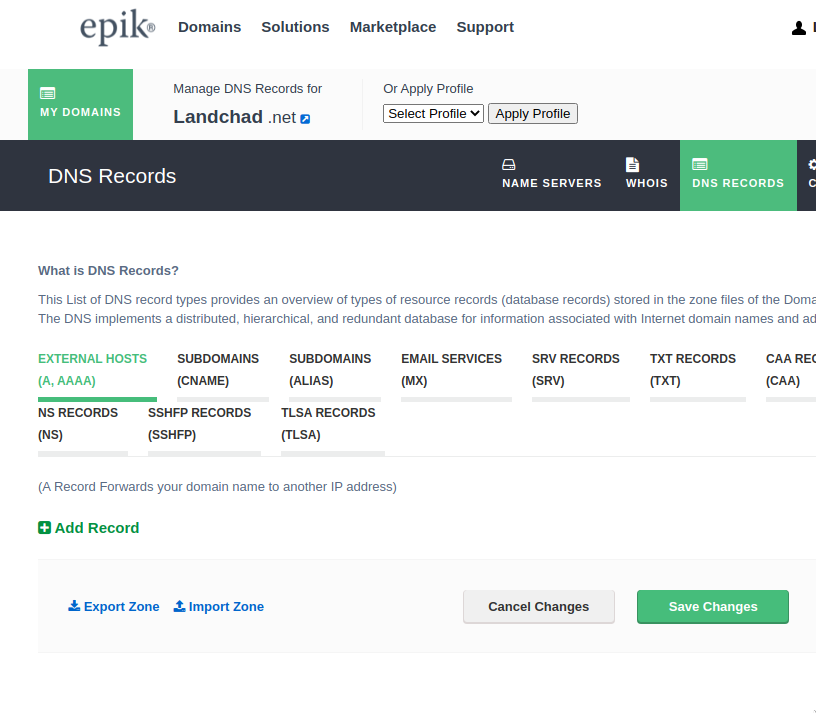
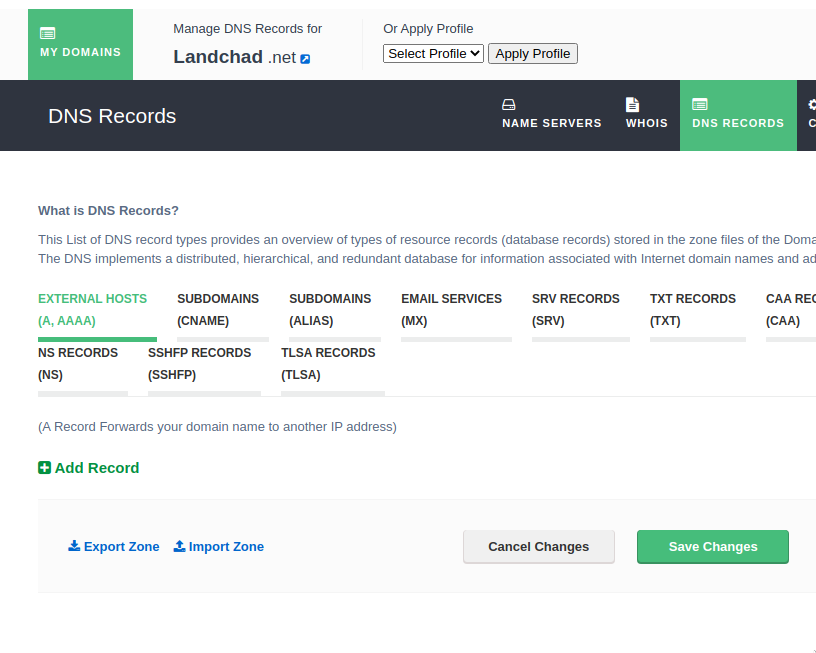
Epik formally disrecommended In addition to being hacked, Epik has been taking weeks or months to register domains and the quality of service has cratered. Lack of transparency about issues makes recommendation of Epik impossible.

diff --git a/content/basic/dns.md b/content/basic/dns.md
@@ -10,30 +10,28 @@ can connect the two using DNS records. DNS (domain name system) records
 are usually put into your registrar and direct people looking up your
 website to the server where your website and other things will be.
 
-Get your IPv4/IPv6 addresses from Vultr and put them into A/AAAA records
-on Epik. Simple process, takes a minute, but here\'s a guide with a
-million images just so you know.
+Get your IPv4/IPv6 addresses from your VPS provider and put them into A/AAAA
+records on your registrar. Simple process, takes a minute, but here\'s a guide
+with a million images just so you know.
 
 ## Open up your Registrar
 
-As before, we will be using
-[Epik](https://www.epik.com/?affid=we2ro7sa6) as a registrar and
-[Vultr](https://www.vultr.com/?ref=8384069-6G) as a server host. Go
-ahead and log into your accounts on both. Open up Epik, or your
-registrar, and click on your domain and then a choice for \"DNS
-records.\" This is the screen you\'ll want to see on Epik.
+As before, we will be using any registrar of your choice and
+[Vultr](https://www.vultr.com/?ref=8384069-6G) as a server host. Go ahead and
+log into your accounts on both. Open up your registrar, or your registrar, and
+click on your domain and then a choice for \"DNS records.\" You'll want to see
+something like this on your registrar's site.
 
-{{< img alt="Blank Epik DNS records" src="/pix/dns-epik.png" link="/pix/dns-epik.png" >}}
+{{< img alt="Blank records" src="/pix/dns-epik.png" link="/pix/dns-epik.png" >}}
 
-Note that we are on the \"External Hosts (A, AAAA)\" tab by default.
-Epik sometimes adds records to this page once you buy a domain. If they
-did, you can go ahead and delete them so they look clean like the
-picture above.
+Note that we are on the \"External Hosts (A, AAAA)\" tab by default. There may
+be default settings set by your registrar. If there are, you can go ahead and
+delete them so they look clean like the picture above.
 
 **All we have to do now is get our IP addresses from Vultr and add new
 DNS records that will send connections to our server.**
 
-Keep the Epik tab open and open Vultr and we will copy-and-paste our IP
+Keep the registrar tab open and open Vultr and we will copy-and-paste our IP
 addresses in.
 
 ## Find your server\'s IP addresses
@@ -45,8 +43,8 @@ attach to it). That is my **IPv4** address.
 
 {{< img src="/pix/dns-ipv4.png" alt="See the IPv4 address?" link="/pix/dns-ipv4.png" >}}
 
-Copy your IPv4 address and on Epik, click the \"Add Record\" record
-button and add two A entries pasting in your IPv4 address like I\'ve
+Copy your IPv4 address and on your registrar's site, click the \"Add Record\"
+record button and add two A entries pasting in your IPv4 address like I\'ve
 done for mine here.
 
 {{< img src="/pix/dns-ipv4-done.png" alt="IPv4 complete" link="/pix/dns-ipv4-done.png" >}}
@@ -74,8 +72,8 @@ Now just click on the **IPv6** submenu to reveal your IPv6 address.
 {{< img alt="The IPv6 address" src="/pix/dns-ipv6.png" link="/pix/dns-ipv6.png" >}}
 
 That ugly looking sequence of numbers and letters with colons in between
-(`2001:19f0:5:ccc:5400:03ff:fe58:324a`) is my **IPv6** address. Yours
-will look something like it. Now let\'s put it into Epik. This time, be
+(`2001:19f0:5:ccc:5400:03ff:fe58:324a`) is my **IPv6** address. Yours will look
+something like it. Now let\'s put it into your registrar's site. This time, be
 sure to select to put in AAAA records as below:
 
 {{< img src="/pix/dns-ipv6-done.png" alt="IPv6 complete" link="/pix/dns-ipv6-done.png" >}}

diff --git a/content/basic/domain.md b/content/basic/domain.md
@@ -25,14 +25,22 @@ So let\'s register your domain name!
 
 ## How
 
-Domains can be registered at any accredited <dfn>registrar</dfn>. In this
-guide, I will use the registrar
-[Epik](https://www.epik.com/?affid=we2ro7sa6) because it is one of the
-more high quality and easy to use. The guides on this site will use
-Epik, but if you choose to register your domain with one of the [many,
-many other registrars](https://www.icann.org/en/accredited-registrars),
-you can still do most of what Epik does, albeit options and settings
-might appear in different menus.
+Domains can be registered at any accredited <dfn>registrar</dfn> and there are
+[a lot to choose from](https://www.icann.org/en/accredited-registrars). Some major names are
+[Host Gator](https://www.hostgator.com/domains),
+[Blue Host](https://www.bluehost.com/domains),
+[Name Cheap](https://www.namecheap.com/domains/) or
+[Dream Host](https://www.dreamhost.com/domains/).
+
+There are also sites that are more private like [Njalla](https://njal.la/) and
+[Cheap Privacy](https://cheapprivacy.ru/), which register a domain for you
+under their name, but still allow you access to it. (Normally all websites must
+be registered with the ICANN with a real name and address, but these sites
+allow you to bypass that.)
+
+Choosing a registrar is not permanent, and you can transfer domains to a
+different registrar if get a better deal later, so in most cases, you can just
+choose one and let's head on...
 
 ### Basic info about domain names
 
@@ -49,8 +57,7 @@ might appear in different menus.
 
 ### Looking for domain names
 
-Let\'s go to [Epik\'s site](https://www.epik.com/?affid=we2ro7sa6) and
-you can search for domain names.
+Let\'s go to our registrar's site and you can search for domain names.
 
 You can look for whatever domain name you want. Domains that are already
 bought and owned by someone else might have the option to \"Backorder,\"

diff --git a/content/mail/validate.md b/content/mail/validate.md
@@ -119,10 +119,9 @@ systemctl reload postfix
 
 ## Adding the DNS record!
 
-We are only one step away from having functioning OpenDKIM. We must add
-the DKIM public key to our server\'s DNS settings, so go ahead and open
-up [your registrar\'s site](https://www.epik.com/?affid=we2ro7sa6) or
-wherever your site\'s DNS settings are.
+We are only one step away from having functioning OpenDKIM. We must add the
+DKIM public key to our server\'s DNS settings, so go ahead and open up your
+registrar\'s site or wherever your site\'s DNS settings are.
 
 The public key is found in the file `/etc/postfix/dkim/mail.txt`, but it
 will display as multiple lines and multiple quoted strings, which is
@@ -145,9 +144,8 @@ host we put it for is `mail._domainkey`.
 
 {{< img alt="Adding the OpenDKIM TXT entry in DNS settings" src="/pix/dkim-01.png" link="/pix/dkim-01.png" >}}
 
-On my registrar, Epik, this is how it is input, but on some registrars,
-it may be required to include your domain name as well as
-`mail._domainkey.example.org`.
+On my registrar, this is how it is input, but on some registrars, it may be
+required to include your domain name as well as `mail._domainkey.example.org`.
 
 If you have your own DNS server, add a TXT entry as follows:
 
